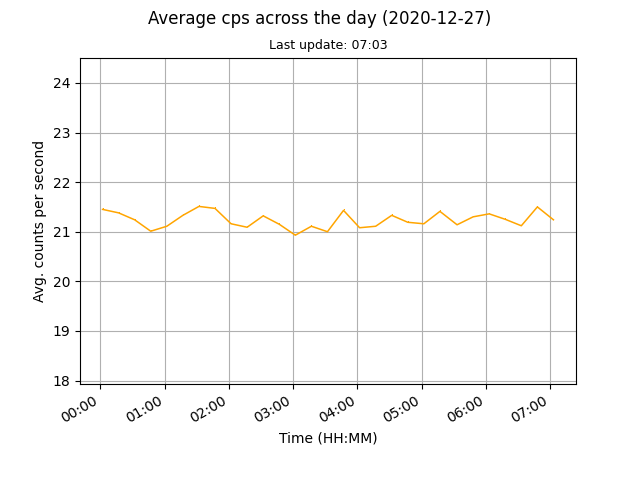
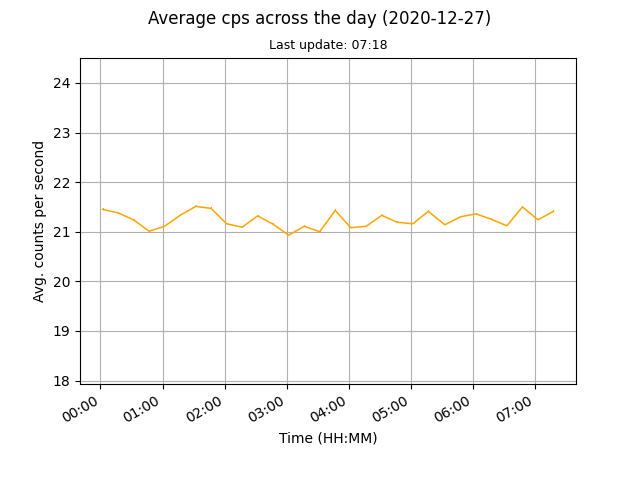
auto data update

diff --git a/docs/index.html b/docs/index.html
@@ -45,8 +45,8 @@
 	
 	<br>
 	
-	<p>Current counts per second (cps): 21.24</p>
-	<p>Last update: 2020-12-27, 07:03</p>
+	<p>Current counts per second (cps): 21.41</p>
+	<p>Last update: 2020-12-27, 07:18</p>
 
 	<p><a href="images/monthly.png"><img src="images/monthly.png" alt="Mothly avg cps data"></a><a href="images/daily.png"><img src="images/daily.png" alt="Daily avg cps data"></a></p>
 	
